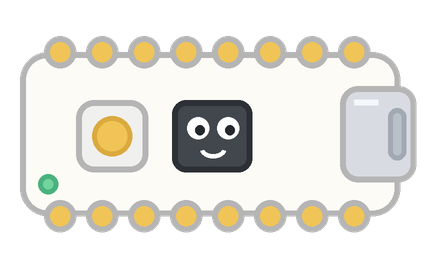
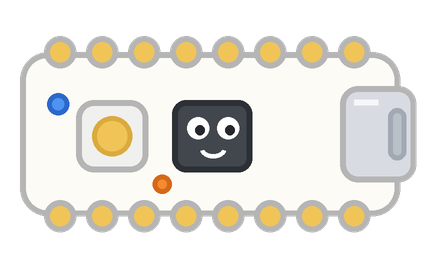
ランプの色と位置を実物に合わせた
点灯した実物の写真を確認して直した。緑を1つ置いていたのは
まちがいで、実際は2つある。

- PWR … 青。USBから遠い左のはし寄り
- L   … だいだい。マイコンの左下の角にくっついている

写真はUSBが上向きなので、アイコン（USBが右）に合わせて
時計まわりに90度まわした位置に置いている。

Changed region(s): [[0.331, 0.6269, 0.4213, 0.7463], [0.0903, 0.3284, 0.1806, 0.4478], [0.0903, 0.6269, 0.1505, 0.7463]]

diff --git a/tools/boardicon.py b/tools/boardicon.py
@@ -13,7 +13,8 @@ GOLD  = (240, 196, 86)
 CHIP  = (66, 71, 78)
 USB   = (216, 220, 226)
 BTN   = (240, 240, 238)
-LED   = (116, 212, 158)
+PWR   = (78, 146, 242)                  # PWR は青
+LED_L = (246, 138, 46)                  # マイコンのとなりの L は だいだい
 WHITE = (255, 255, 255)
 
 def s(v):  return [int(round(x * S)) for x in v]
@@ -52,8 +53,9 @@ def draw(face):
     # リセットボタン
     rr(d, [38, 50, 74, 86], 9, BTN)
     ci(d, 56, 68, 10, GOLD, (219, 170, 62), 2.5)
-    # 電源ランプ
-    ci(d, 24, 92, 5, LED, (74, 178, 126), 2.5)
+    # ランプ2つ。USB を右にした向きで、実物どおりの位置に
+    ci(d, 29, 52, 5.5, PWR,   (44, 104, 202), 2.5)   # PWR：左のはし寄り
+    ci(d, 81, 92, 4.8, LED_L, (212, 104, 24), 2.5)   # L：マイコンの左下の角
     return im.resize((W * 2, H * 2), Image.LANCZOS)
 
 for face, name in ((False, "board.png"), (True, "board-face.png")):
